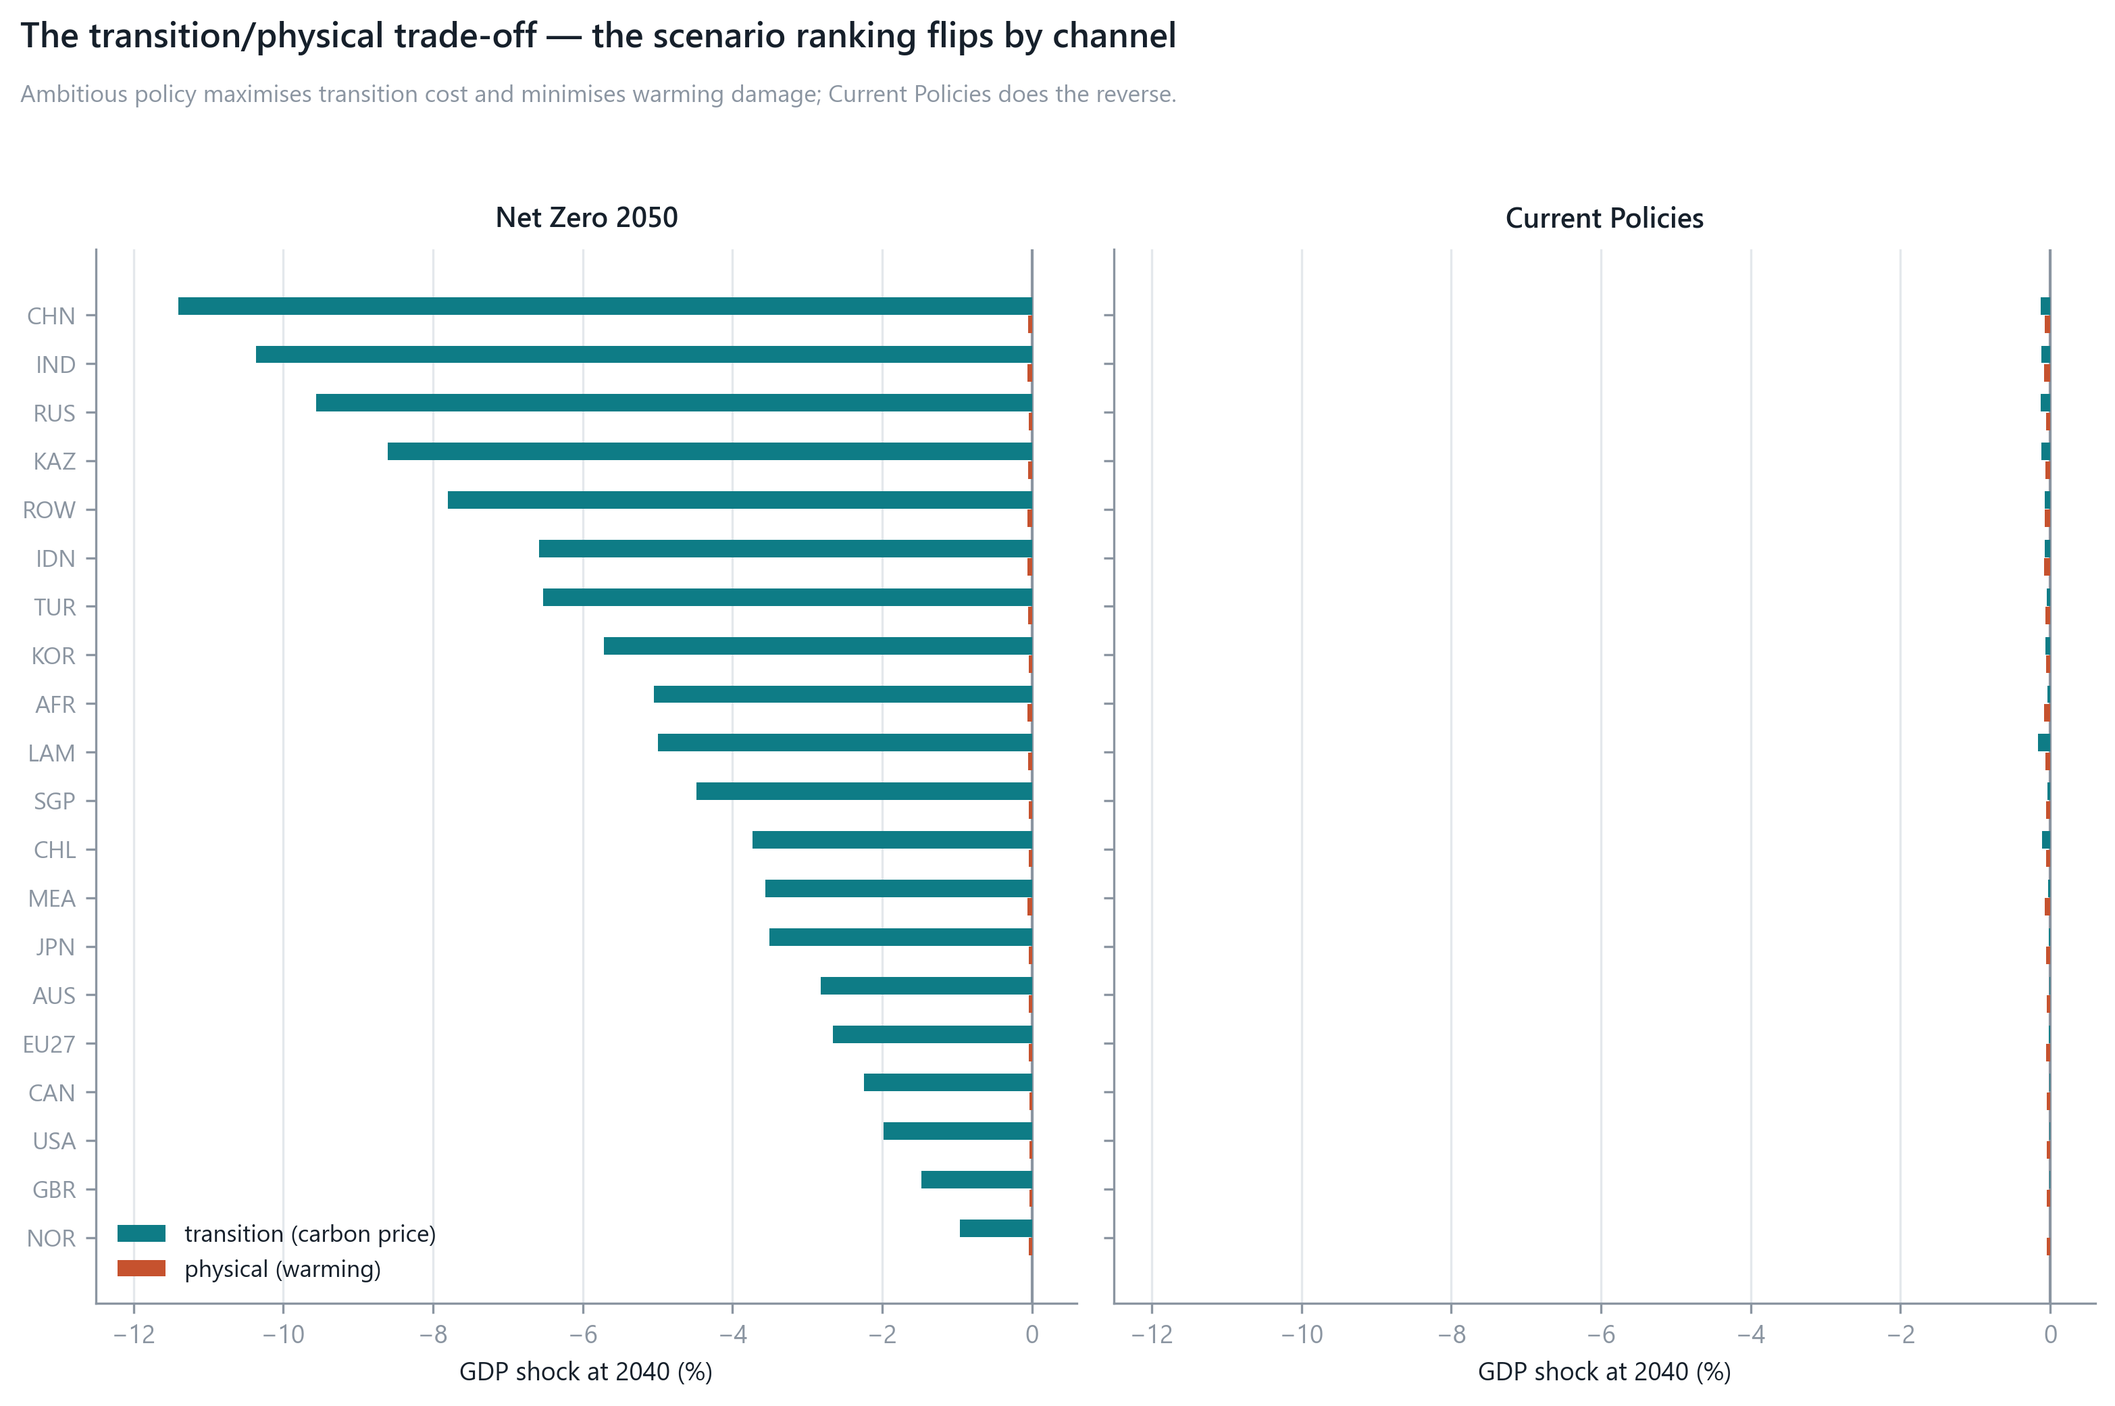
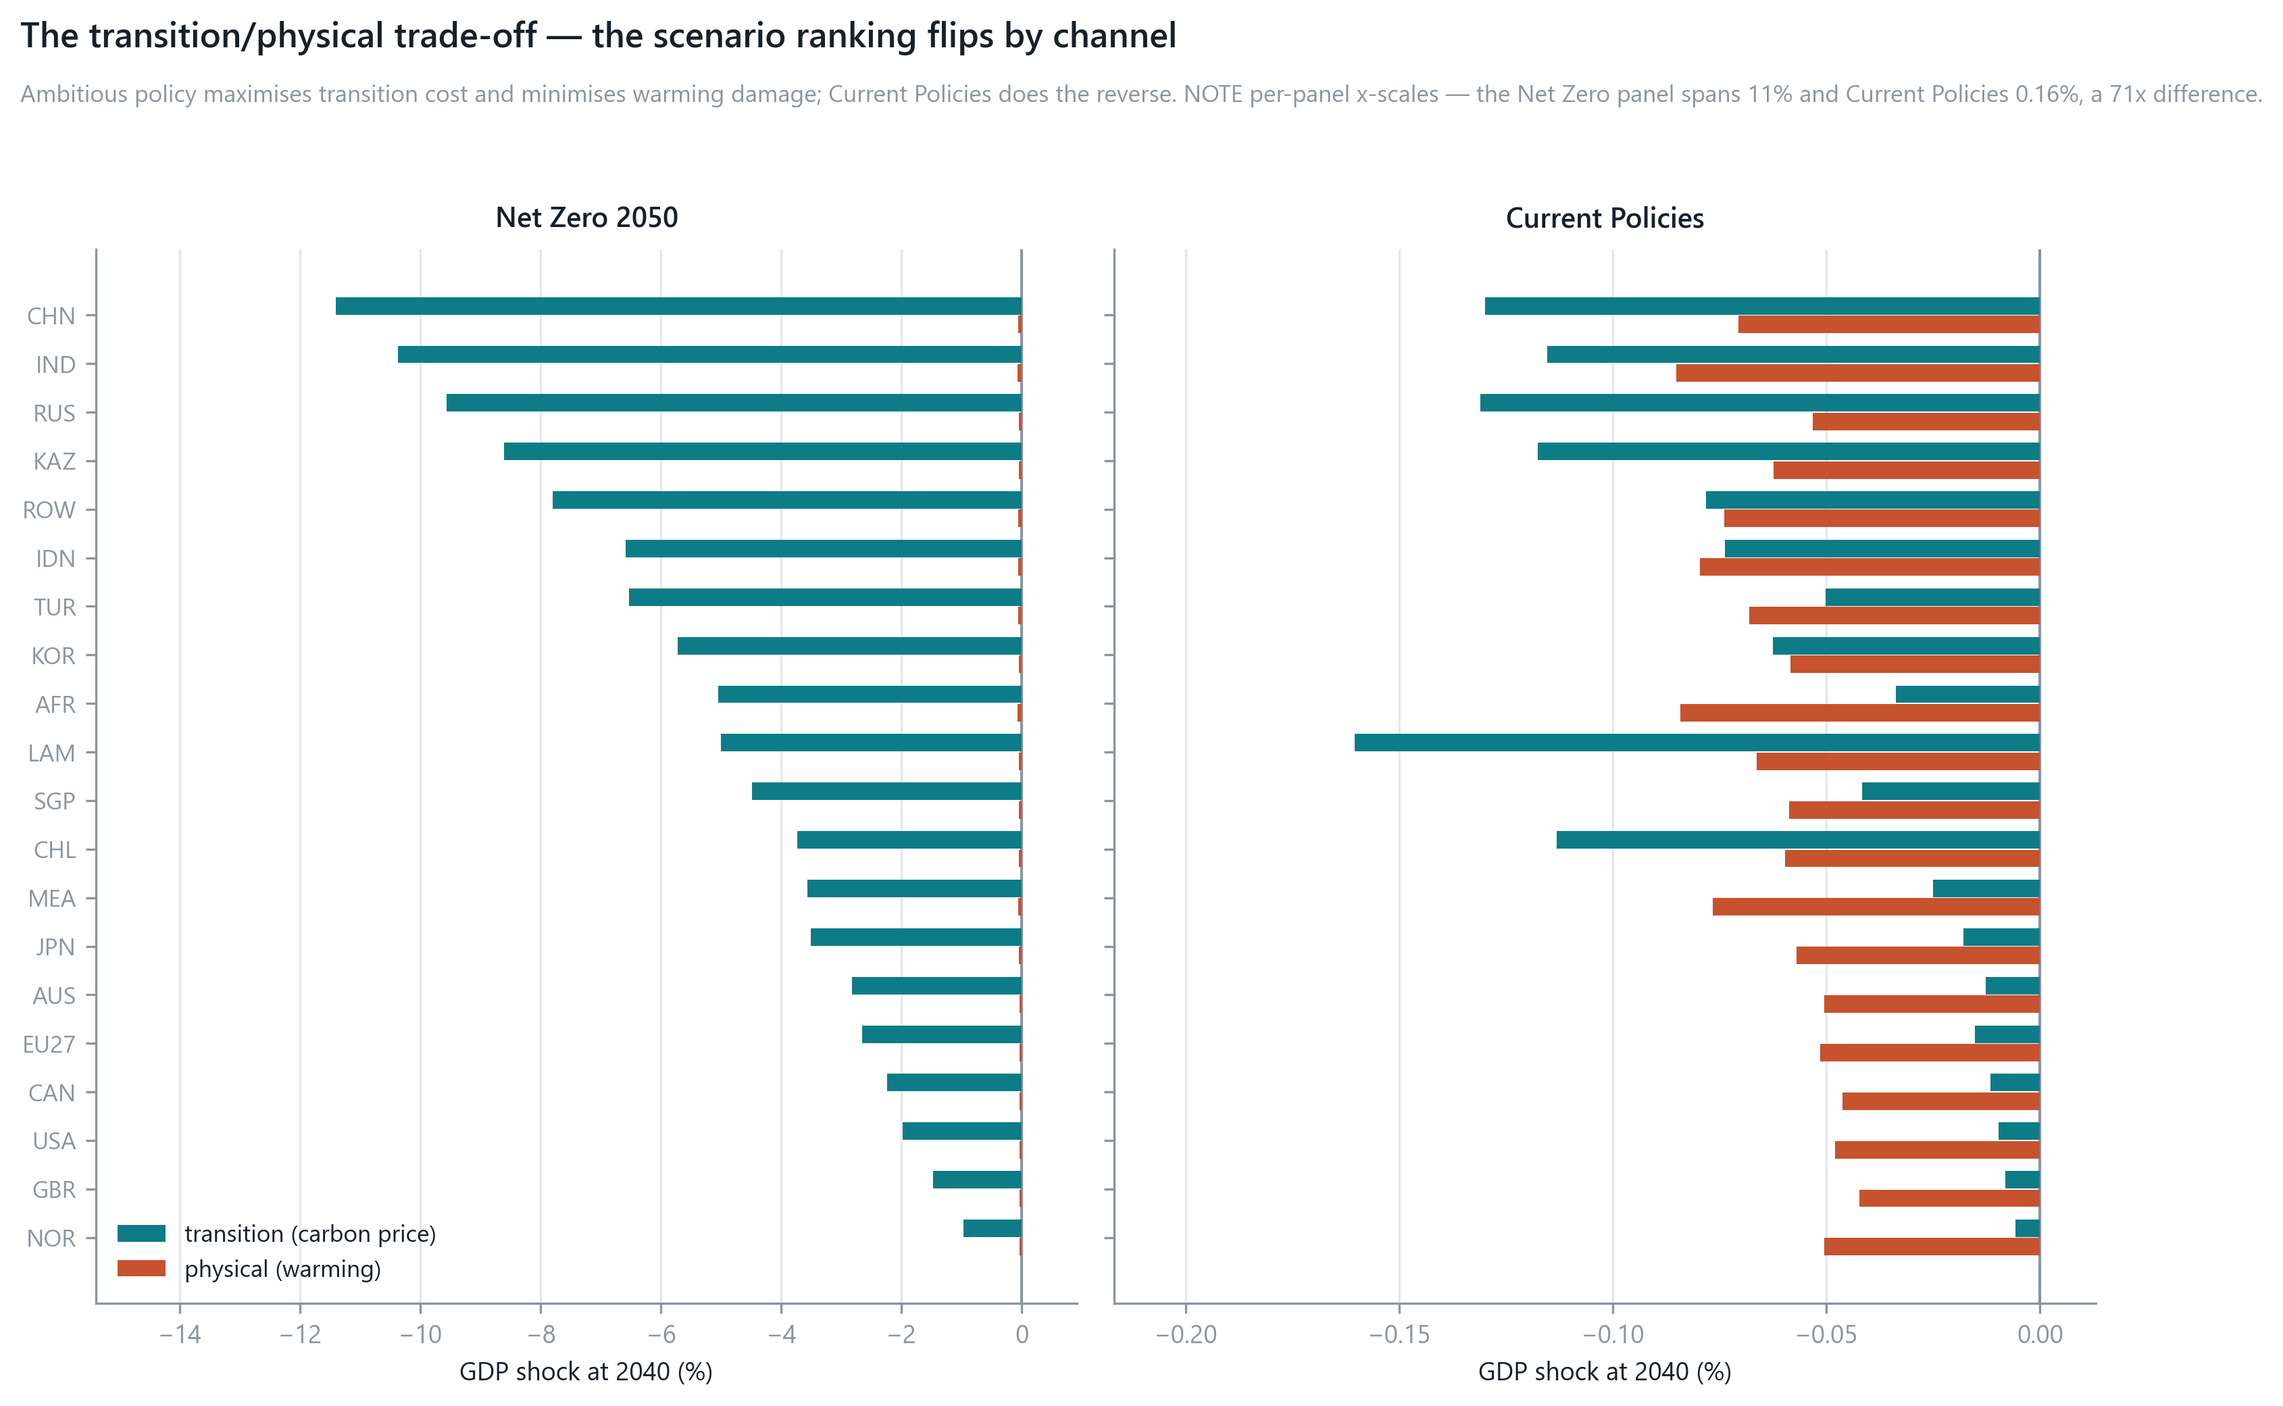
Add docs/FIGURES.md; fix a stale figure caption and an unreadable panel
Checking the existing figures against current results before cataloguing
them turned up two real problems:

* fig11's caption was hardcoded 'EU price $80/t ... ~$8.4bn/yr' and had not
  moved when the calibration went to the published $86/t certificate price.
  The bars were correct (KAZ 160%) but the caption contradicted them.  It
  now reads both price and revenue from the data so it cannot drift again.

* fig1 shared one x-scale across both panels, which after the 100x
  damage-function correction left the Current Policies panel a blank
  column - the 'channel flip' it exists to show was invisible.  Panels now
  carry independent scales with the 71x difference stated in the subtitle.

Verified the rest against the tables: fig10's 20Y/1D = 0.688 = B(20)/20,
fig2's CHN -20.6% at 2040, fig5's post-fix damage scale, fig6's RUS equity
-19.2%, and that all 12 figures postdate every result CSV.

FIGURES.md gives each figure a purpose and its findings, and records two
things worth not losing: fig3 and fig9 must be read as a pair (drift washes
out the 17x prior sensitivity), and fig5 is a consistency check rather than
a finding, since Prop 1 allocates damage through ND-GAIN by construction.

Also fixes FX_REPORT sec3, which showed a 2040 figure above a 2045 table.

(cherry picked from commit e1f5e78d8331fe09097adccf189cb0ca0133fdae)

diff --git a/tools/make_figures.py b/tools/make_figures.py
@@ -74,9 +74,11 @@ def fig_tradeoff():
     order = sorted(regs, key=lambda r: tr.loc[(NZ, r), H])
     y = np.arange(len(order))
     fig, axes = plt.subplots(1, 2, figsize=(10.5, 6.4), sharey=True)
+    span = {}
     for ax, s in zip(axes, (NZ, CP)):
         t = [tr.loc[(s, r), H] for r in order]
         p = [ph.loc[(s, r), H] for r in order]
+        span[s] = min(min(t), min(p))
         ax.barh(y - 0.19, t, height=0.36, color=TEAL, label="transition (carbon price)", zorder=3)
         ax.barh(y + 0.19, p, height=0.36, color=WARM, label="physical (warming)", zorder=3)
         ax.axvline(0, color=MUTED, lw=1)
@@ -84,14 +86,24 @@ def fig_tradeoff():
         ax.set_xlabel("GDP shock at 2040 (%)")
         ax.grid(axis="x", color=GRID, lw=0.8, zorder=0)
         ax.set_axisbelow(True)
-        ax.set_xlim(-12.5, 0.6)
+        # independent x-scales: on a shared scale the Current Policies panel is
+        # a blank column, because after the damage-function correction physical
+        # damage is ~100x smaller than the Net Zero transition cost.  The point
+        # of the figure is which channel dominates WITHIN each scenario, so the
+        # scales are per-panel and the difference is stated in the subtitle.
+        lo = min(min(t), min(p)) * 1.35
+        ax.set_xlim(lo, abs(lo) * 0.06)
     axes[0].set_yticks(y, order, fontsize=8.5)
     axes[0].invert_yaxis()
     axes[0].legend(loc="lower left", frameon=False, fontsize=8.5)
     fig.suptitle("The transition/physical trade-off — the scenario ranking flips by channel",
                  fontsize=12.5, fontweight="600", x=0.012, ha="left", y=1.075)
-    fig.text(0.012, 1.012, "Ambitious policy maximises transition cost and minimises warming damage; "
-             "Current Policies does the reverse.", fontsize=8.5, color=MUTED, ha="left")
+    fig.text(0.012, 1.012,
+             "Ambitious policy maximises transition cost and minimises warming damage; Current "
+             f"Policies does the reverse. NOTE per-panel x-scales — the Net Zero panel spans "
+             f"{abs(span[NZ]):.0f}% and Current Policies {abs(span[CP]):.2f}%, a "
+             f"{abs(span[NZ])/abs(span[CP]):.0f}x difference.",
+             fontsize=8.5, color=MUTED, ha="left")
     fig.tight_layout()
     fig.savefig(os.path.join(FIG, "fig1_transition_vs_physical.png"), dpi=300, bbox_inches="tight")
     plt.close(fig)
@@ -372,8 +384,14 @@ def fig_cbam():
         ax.set_axisbelow(True)
     fig.suptitle("CBAM as a carbon tariff: enormous sector rates, small macro effect",
                  fontsize=12.5, fontweight="600", x=0.012, ha="left", y=1.075)
-    fig.text(0.012, 1.012, r"EU price \$80/t against the price each origin already pays. "
-             r"Revenue on covered intermediate imports ~\$8.4bn/yr.",
+    # read the price and revenue from the data rather than hardcoding them, so
+    # the caption cannot drift from the bars when the calibration changes
+    eu_px = pd.read_csv(os.path.join(ROOT, "DATA_20R/region_carbon_map.csv"),
+                        index_col="region").loc["EU27", "applied_price_usd"]
+    rev = g.loc[("applied-divergence", "theta=1"), "revenue_bn"]
+    fig.text(0.012, 1.012,
+             rf"EU price \${eu_px:.0f}/t (published CBAM certificate price) against "
+             rf"the price each origin already pays. Revenue \${rev:.1f}bn/yr.",
              fontsize=8.5, color=MUTED, ha="left")
     fig.tight_layout()
     fig.savefig(os.path.join(FIG, "fig11_cbam.png"), dpi=300, bbox_inches="tight")

diff --git a/docs/FIGURES.md b/docs/FIGURES.md
@@ -1,0 +1,180 @@
+# Figure catalogue
+
+One entry per figure: what it shows, and what it says. All figures are generated
+by [`tools/make_figures.py`](../tools/make_figures.py) from the committed result
+tables — no model re-run needed. Regenerate with `py -3 tools/make_figures.py`.
+
+> **Maintenance.** Add an entry here whenever a figure is added or its message
+> changes. A figure whose caption states a number must read that number from the
+> data, never hardcode it — fig11 carried a stale `$80/t` caption for several
+> commits after the calibration moved to `$86/t` while its bars were correct.
+
+**Conventions.** Diverging orange/blue for signed quantities (CVD-safe pair),
+teal for single-series magnitudes, a printed value on bars wherever it fits so
+colour is never the sole encoding. Unless stated, the reporting year is 2040 and
+the scenario is Net Zero 2050.
+
+---
+
+## Core results
+
+### fig1 — `fig1_transition_vs_physical.png`
+**What.** Transition (carbon-price) versus physical (warming) GDP shock per
+region, Net Zero 2050 against Current Policies, at 2040.
+
+**Findings.** The channel ranking flips: under Net Zero transition dominates in
+**20/20** regions (China −11.4 %), under Current Policies physical dominates in
+**12/20**. But the flip is *marginal* — under Current Policies the two channels
+average −0.061 % and −0.062 %, within 2 % of each other.
+
+The larger message is the **71× scale difference between panels**, which is why
+they now carry independent x-axes with the difference stated in the subtitle. On
+a shared scale the Current Policies panel was a blank column. This is a direct
+consequence of the damage-function correction (Ω was 100× too large before
+[PAPER_AUDIT.md](PAPER_AUDIT.md)); the pre-fix version of this figure would have
+shown physical damage rivalling transition cost, which was wrong.
+
+### fig2 — `fig2_fx_forward_ranking.png`
+**What.** 5-year forward FX shift against the euro at 2040, one bar per currency,
+with a tick marking the spot-only component.
+
+**Findings.** CNY −20.6 %, INR −19.9 %, KZT −13.8 % at one end; NOK +4.2 % and
+GBP +1.5 % at the other. The ordering is the carbon-intensity ordering. The
+**ticks sit near zero on every bar** — the visual statement that spot is a small
+fraction of the forward, which fig12 quantifies.
+
+Read the sign carefully: a currency "strengthening" here reflects an output
+collapse forcing deep rate cuts, so it is a distress signal, not strength.
+
+### fig12 — `fig12_two_fx_channels.png`
+**What.** Two panels: (a) spot against 5-year forward per currency; (b) the
+Taylor-rule decomposition into output and inflation terms.
+
+**Findings.** The paper's single FX route splits into two channels **9× apart**
+that correlate only **0.40** and **disagree in sign for 3 of 14 currencies**
+(GBP, JPY, KRW — starred). Panel (b) gives the reason: the inflation term is a
+**median 0.6 %** of each region's rate move (max 6.5 %, Norway), so the forward is
+almost purely the output channel while spot is purely the inflation channel.
+
+Korea is the clean case — it prices carbon (spot: KRW weakens) *and* emits it
+(forward: KRW strengthens). See [FX_REPORT.md](FX_REPORT.md) §2.
+
+---
+
+## Scenario and uncertainty
+
+### fig7 — `fig7_scenario_inputs.png`
+**What.** The two NGFS Phase 5 driver paths: OECD carbon price and global mean
+warming, 2022–2050, for four scenarios.
+
+**Findings.** The two drivers diverge on completely different scales. Carbon
+prices span **~$3 to ~$625/tCO₂e** by 2050; warming spans only **1.70 K to
+1.93 K**. That asymmetry is why FX responds to the carbon *price* rather than to
+temperature, and it is the evidence behind switching the scenario-transition
+distance metric from 1-D warming to 2-D (ΔT₂₁₀₀, XCE₂₀₅₀).
+
+### fig8 — `fig8_fx_term_structure.png`
+**What.** 5-year forward FX by horizon year, 2025–2045, Net Zero against NDCs,
+for six currencies.
+
+**Findings.** The move is **front-loaded** — most of it lands between 2025 and
+2030, then drifts. Under NDCs the paths flatten almost completely after 2030 and
+the whole panel is roughly 10× smaller. For a stress-testing application the
+near-term repricing matters more than the terminal number.
+
+### fig3 — `fig3_mixture_expected_fx.png`
+**What.** Expected 5-year forward FX under the Dirichlet scenario mixture, four
+priors, at 2040.
+
+**Findings.** A **17× range on CNY** from the choice of prior alone — ambition
+−8.75 % against consensus −0.52 %. The consensus prior, anchored on published
+~2.7 °C current-policy warming, puts almost all weight on mild scenarios and
+nearly extinguishes the result. Prior choice is a modelling judgement and
+deserves as much prominence as scenario choice.
+
+### fig9 — `fig9_scenario_drift_sensitivity.png`
+**What.** The same mixture with the Eq-1 transition matrix applied — scenario
+weights drifting annually — at slow (λ=5) and fast (λ=0.5) drift. Dotted = static
+mixture, solid = drifted.
+
+**Findings.** **This is the counterweight to fig3.** Under fast drift the three
+priors converge: by 2045 they are nearly indistinguishable, and the 17× prior
+sensitivity that fig3 reports largely washes out. So the prior matters a great
+deal *if* scenario beliefs are static, and much less if they migrate. Read fig3
+and fig9 as a pair — neither is the whole answer.
+
+### fig4 — `fig4_fx_at_risk_band.png`
+**What.** Central path against 95th-percentile inputs (1.64σ on temperature from
+the MAGICC fan and on carbon price from the cross-model spread), at 2040.
+
+**Findings.** KZT is the most stress-sensitive (−13.8 % → −18.6 %); CNY moves
+−20.5 % → −22.7 %. The tail is **not uniformly adverse** — NOK and GBP move
+*further positive* under stress. The stress widens dispersion rather than shifting
+a level, which is the correct behaviour for a relative-price channel.
+
+---
+
+## Channels and mechanism
+
+### fig10 — `fig10_rate_term_structure.png`
+**What.** The §2.8 zero-rate shift by tenor (1D to 20Y) under Prop 2, Net Zero
+against NDCs.
+
+**Findings.** The shift decays with maturity at a rate fixed entirely by the
+Hull-White mean reversion: **20Y/1D = 0.688 = B(20)/20** exactly, verified as a
+gate. Because the shape is σ-independent and every region shares one *a*, the
+term structure only *rescales* the short-rate shift — all cross-region variation
+comes from Δr, none from the curve. This is a validation figure as much as a
+result.
+
+### fig6 — `fig6_equity_oprisk.png`
+**What.** Two downstream channels at 2040 under Net Zero: equity index shift
+(β·ΔGVA/GVA) and operational-risk conduct losses (Okun → unemployment → loss
+frequency).
+
+**Findings.** The two orderings **differ**, and instructively. Equity is led by
+RUS −19.2 %, KAZ −17.3 %, ROW −15.7 %; op-risk by **KOR +79 %**, JPN +53 %, RUS
+and SGP +49 %. Korea sits 12th on equity but 1st on op-risk, because op-risk runs
+through the Okun coefficient and the base unemployment rate rather than through
+an equity beta. A region's financial-market exposure and its
+employment-channel exposure are not the same ranking.
+
+### fig5 — `fig5_damage_vs_vulnerability.png`
+**What.** Physical GDP damage at 2040 against the ND-GAIN vulnerability scale,
+Current Policies, with a fitted line.
+
+**Findings.** Damage tracks vulnerability closely — AFR and IND worst at about
+−0.085 %, NOR and GBR least at −0.043 %. **Treat this as a consistency check, not
+a discovery:** Proposition 1 allocates damage through the VL vector, which is
+built from ND-GAIN, so the relationship is largely mechanical. What the figure
+usefully confirms is that the allocation behaves monotonically and that the
+post-correction magnitudes are basis points of GDP, not percent.
+
+### fig11 — `fig11_cbam.png`
+**What.** CBAM as a carbon tariff: ad-valorem rate by origin and sector, and the
+GVA effect under both incidence assumptions.
+
+**Findings.** Sector rates are extreme — **Kazakh electricity at 160 %**, above
+the value of the good itself; Indian electricity 78 %, Indonesian 64 %. Yet the
+macro effect is **−0.011 % of EU GVA on \$10.1 bn of revenue**. Coverage, not the
+rate, is the binding constraint. The right panel shows incidence flipping the
+burden entirely: at θ=1 the EU bears it, at θ=0 Turkey, Russia and Kazakhstan do.
+
+Priced at the published CBAM certificate price (\$86/t), and the caption now reads
+both price and revenue from the data — see the maintenance note above.
+
+---
+
+## Coverage
+
+| figure | in | reporting year |
+|---|---|---|
+| fig1, fig5 | physical / transition channels | 2040 |
+| fig2, fig8, fig12 | [FX_REPORT.md](FX_REPORT.md) | 2040, 2045 |
+| fig3, fig4, fig9 | scenario uncertainty | 2040 |
+| fig6, fig10 | downstream channels | 2040 |
+| fig11 | [TARIFF_CALIBRATION.md](TARIFF_CALIBRATION.md) | 2040 |
+
+**Not yet drawn:** the tariff illustration of [TARIFF_METHOD.md](TARIFF_METHOD.md)
+§5 has no figure, and neither does the China-share sweep. Both are candidates if
+the tariff work is presented.

diff --git a/figures/README.md b/figures/README.md
@@ -1,5 +1,8 @@
 # Figures
 
+> **Per-figure descriptions and findings: [`docs/FIGURES.md`](../docs/FIGURES.md).**
+> Update that catalogue whenever a figure is added or its message changes.
+
 Generated by [`tools/make_figures.py`](../tools/make_figures.py) from the committed
 result tables (300 dpi PNG, no model re-run needed). Regenerate with
 `py -3 tools/make_figures.py`.
@@ -17,6 +20,7 @@ result tables (300 dpi PNG, no model re-run needed). Regenerate with
 | `fig10_rate_term_structure.png` | §2.8 long-rate shift by tenor (Prop 2) — decays with maturity | EXT §2 |
 | `fig11_cbam.png` | **Sensitivity**: CBAM ad-valorem rates by origin-sector, and incidence | AUDIT §I |
 | `fig9_scenario_drift_sensitivity.png` | **Sensitivity**: Eq-1 scenario drift erodes the prior; the three priors converge | AUDIT §E |
+| `fig12_two_fx_channels.png` | **Headline FX**: spot vs forward (9x apart, corr 0.40) and the Taylor decomposition | FX §1 |
 
 Conventions: diverging orange/blue for signed values (CVD-safe pair), teal for
 single-series magnitudes, a printed value on every bar so colour is never the

diff --git a/docs/FX_REPORT.md b/docs/FX_REPORT.md
@@ -65,7 +65,9 @@ calibration it is a rounding error on rates, and matters only because it is the
 
 ![FX ranking](../figures/fig2_fx_forward_ranking.png)
 
-Under Net Zero 2050 at 2045, the 5-year forward against the euro:
+The figure is drawn at **2040** (−20.6 % CNY, −19.9 % INR, +4.2 % NOK); the table
+below is the same ranking at **2045**, the final horizon, which is what the rest of
+this report quotes:
 
 | strengthens most | | weakens | |
 |---|--:|---|--:|
